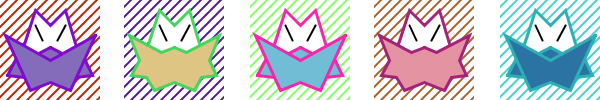
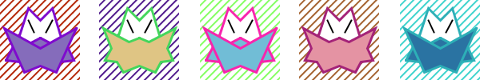
resized samples image

diff --git a/README.md b/README.md
@@ -21,7 +21,7 @@ The result is what you can see here today, very little changed from the first ve
 
 Some examples
 ---
-<img src="https://raw.githubusercontent.com/pitou/danubi/master/images/samples.png" height="80">
+<img src="https://raw.githubusercontent.com/pitou/danubi/master/images/samples.png">
 
 Demo
 ---
